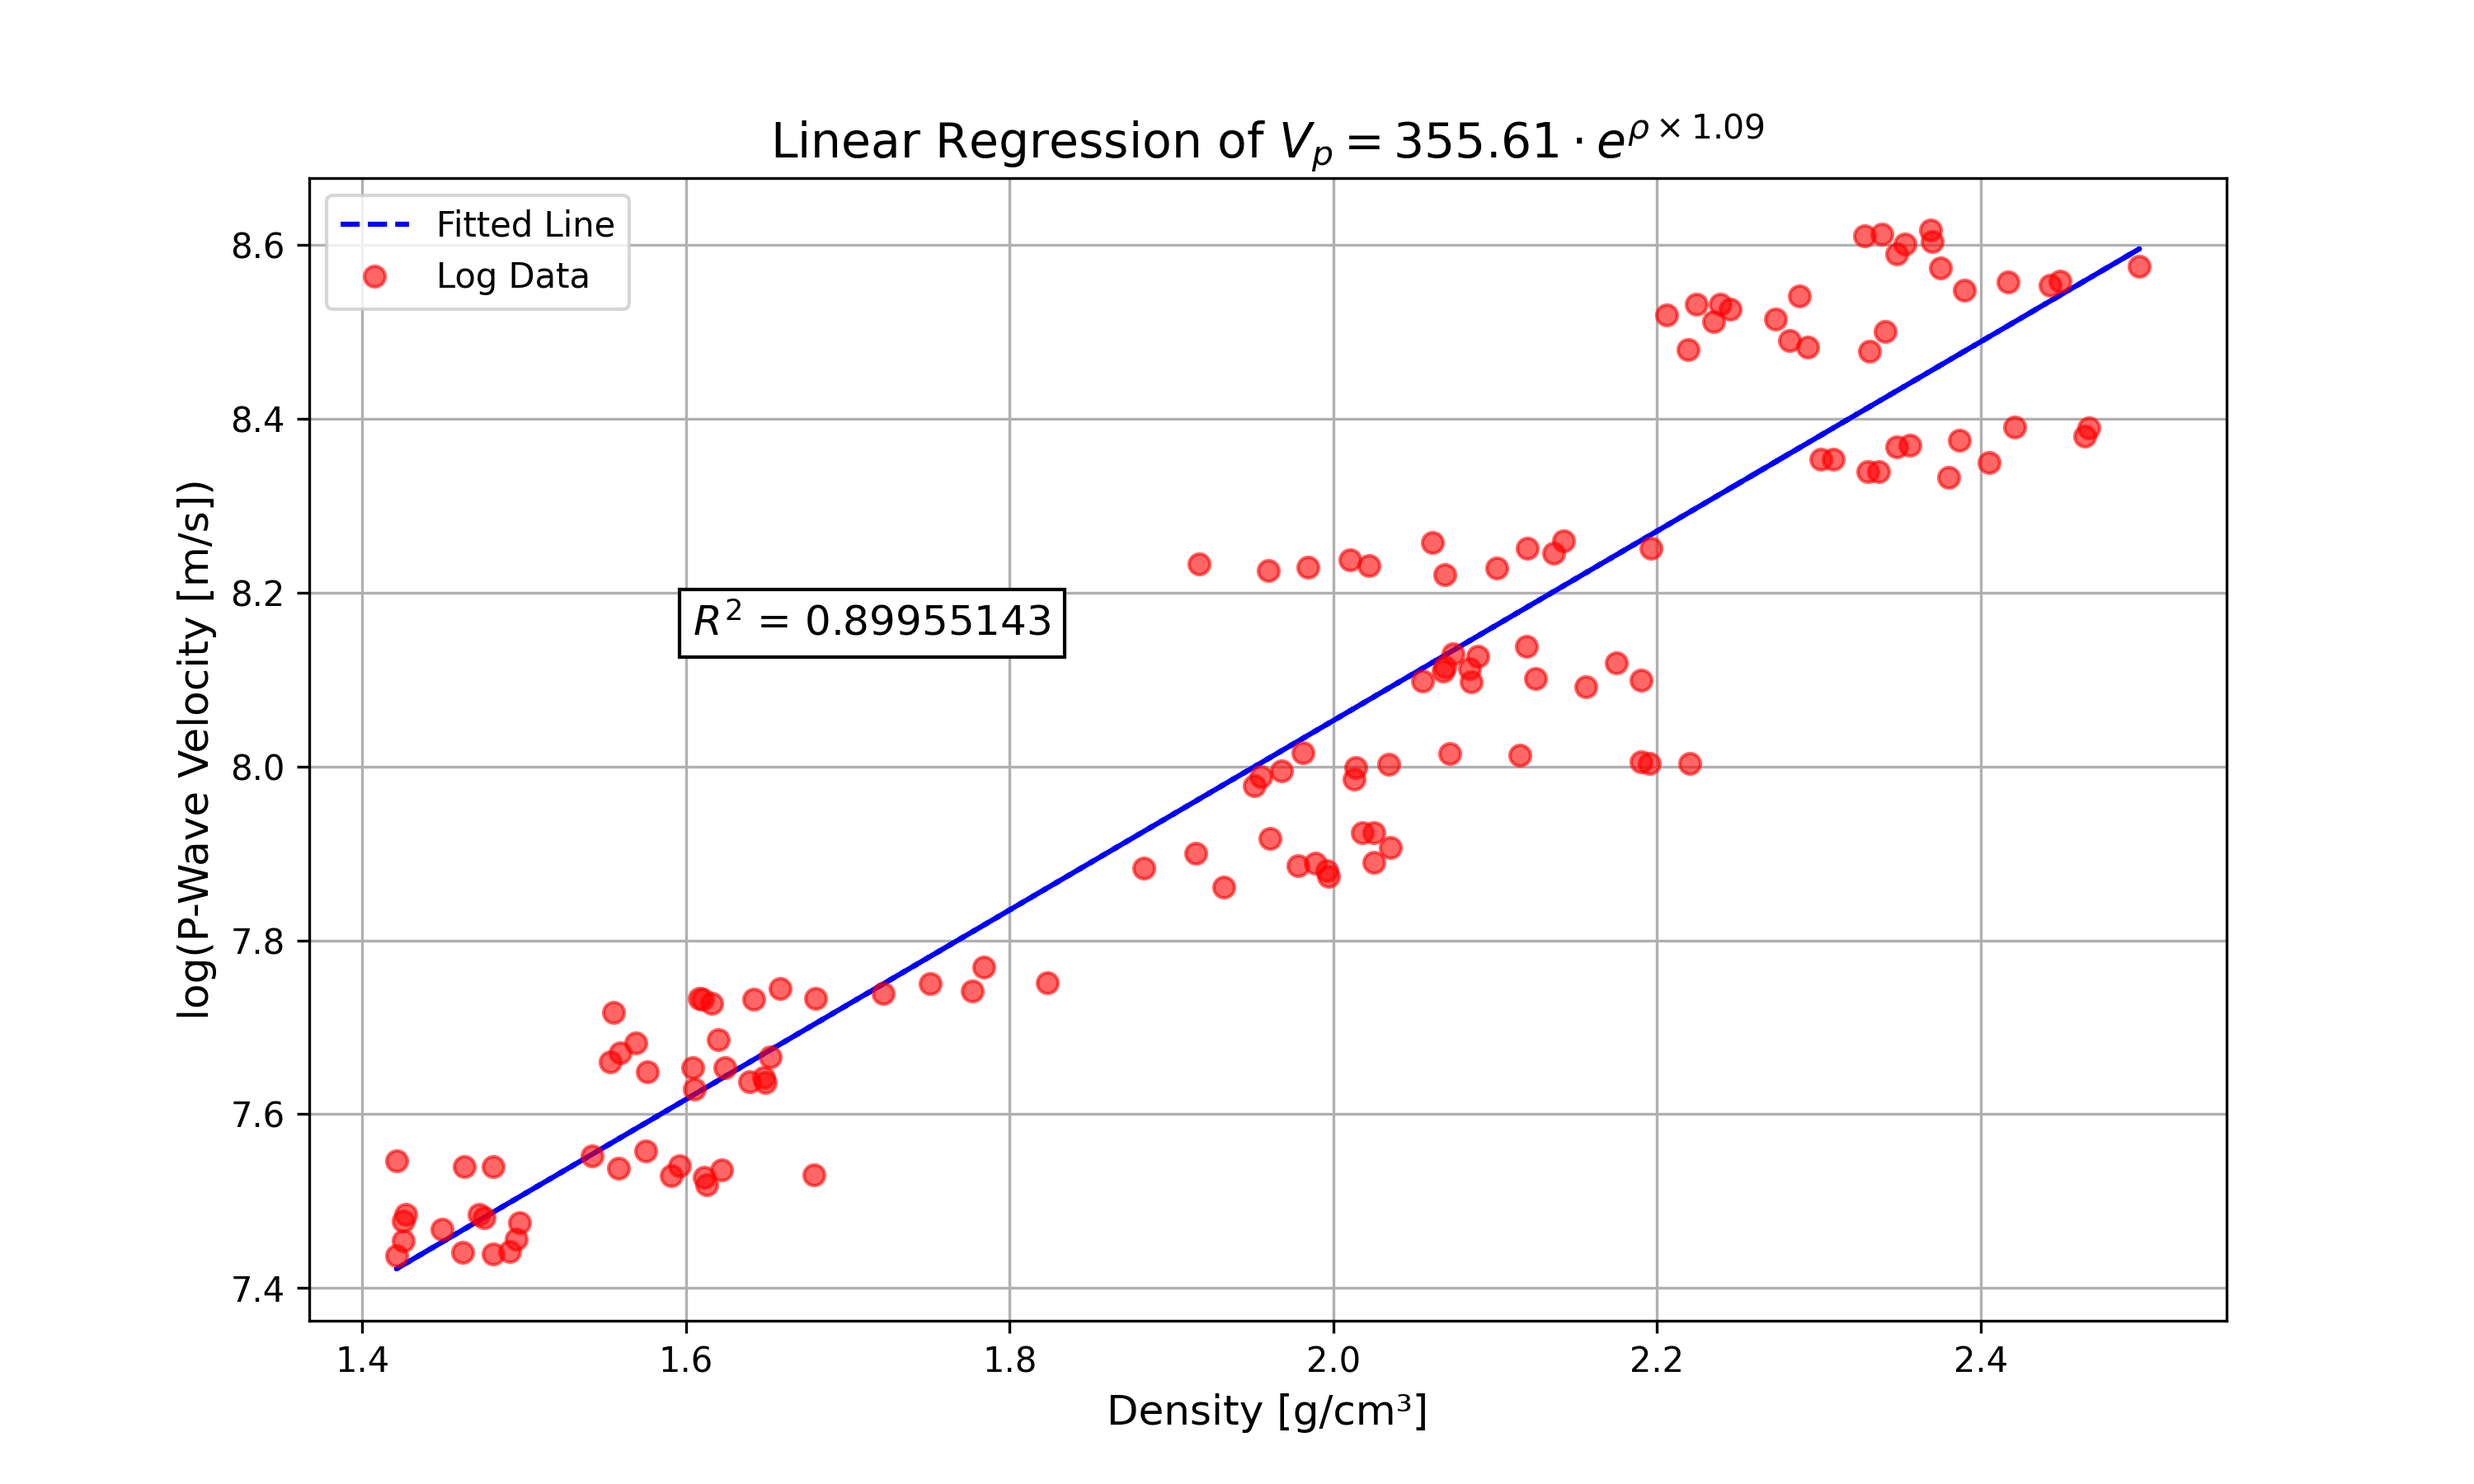
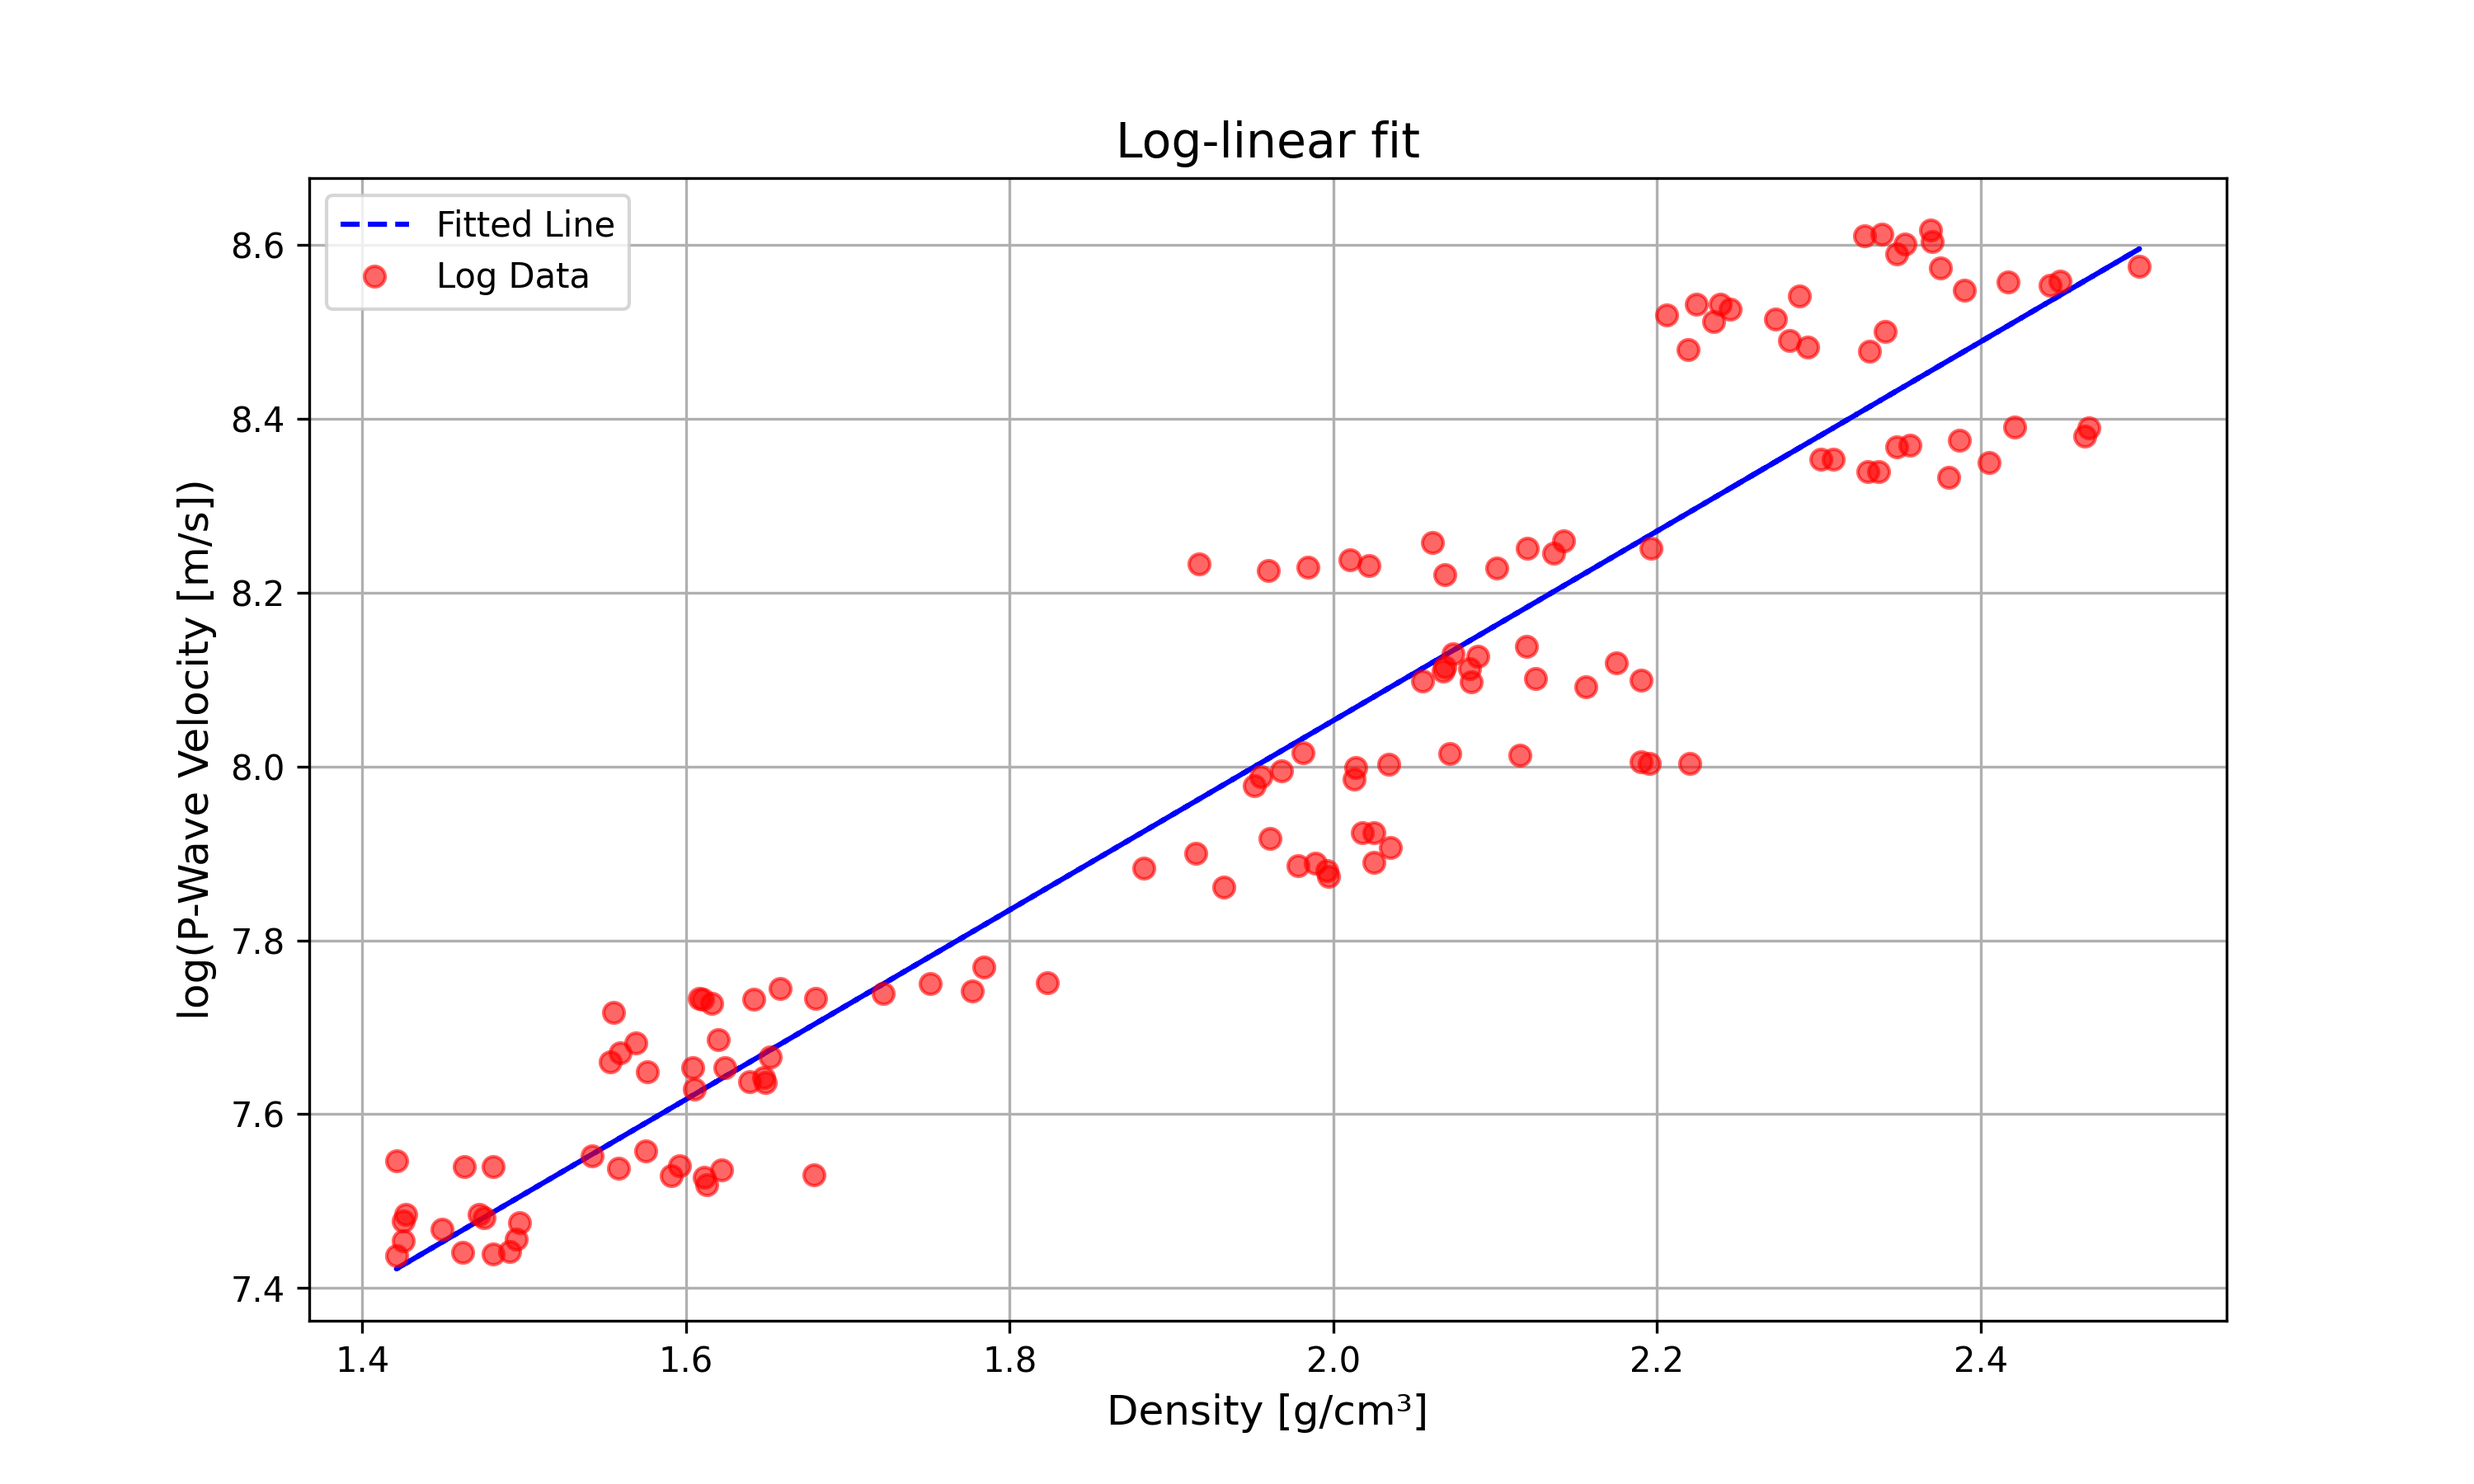
graphs r beautiful again!!!!!!!!

Changed region(s): [[0.31, 0.0622, 0.62, 0.1244], [0.279, 0.3733, 0.434, 0.4356], [0.651, 0.0622, 0.713, 0.0933]]

diff --git a/main/rho_vp_driver.py b/main/rho_vp_driver.py
@@ -17,9 +17,8 @@ def main():
     plt.plot(rho, vp, 'ro', markersize=6, alpha=0.6, label="Original Data")
     plt.xlabel("Density [g/cm³]", fontsize=12)
     plt.ylabel("P-Wave Velocity [m/s]", fontsize=12)
-    plt.title("P-Wave Velocity vs Density", fontsize=14)
-    plt.legend()
-    plt.savefig('../figures/magnitude_vs_time.png', dpi=300)
+    plt.title("Original Data", fontsize=16, fontweight='bold')
+    plt.savefig('../figures/og_plot.png', dpi=300)
     plt.show()
 
     # linearizing (2b)...
@@ -30,14 +29,6 @@ def main():
 
     log_n = Z @ a  # linearized vp values
 
-    # now we fit the model
-    k = a[1]
-    v0 = np.exp(a[0])  # undo the log to get actual V0
-
-    print(f"V0 = {v0}")
-    print(f"k = {k}")
-    print(f"R squared = {rsq}")
-
     # plotting log-linear fit...
     plt.figure(figsize=(10, 6))
     plt.grid()
@@ -45,17 +36,41 @@ def main():
     plt.plot(rho, y, 'ro', markersize=6, alpha=0.6, label="Log Data")
     plt.xlabel("Density [g/cm³]", fontsize=12)
     plt.ylabel("log(P-Wave Velocity [m/s])", fontsize=12)
+    plt.title('Linearized Data With Regression Line', fontsize=16, fontweight='bold')
     plt.legend()
-    plt.savefig('../figures/best_fit.png', dpi=300)
+    plt.savefig('../figures/linear_with_regress.png', dpi=300)
     plt.show()
 
+
+    # now we fit the model
+    k = a[1]
+    v0 = np.exp(a[0])  # undo the log to get actual V0
+    vp_new = v0 * np.exp(k * rho)
+
+    index = np.argsort(rho)
+    rho_sorted = rho[index]
+    vp_sorted = vp_new[index]
+
     # plotting original data with exponential...
-    plt.title(rf"Linear Regression of $V_p = {v0:.2f} \cdot e^{{\rho \times {k:.2f}}}$", fontsize=14)
+    plt.figure(figsize=(10, 6))
+    plt.grid()
+    plt.plot(rho_sorted, vp_sorted, 'b--', markersize=2, label="Fitted Line")
+    plt.plot(rho, vp,'ro', markersize=6, alpha=0.6, label="Original Data")
     plt.text(0.20, 0.60, f'$R^2$ = {rsq:.8f}', transform=plt.gca().transAxes,
              fontsize=12, bbox=dict(facecolor='white'))
+    plt.text(0.20, 0.70, rf'$V_p = {v0:.2f} \cdot e^{{\rho \times {k:.2f}}}$', transform=plt.gca().transAxes,
+             fontsize=12, bbox=dict(facecolor='white'))
     # transform is to place text relative to the axes, not data
+    plt.xlabel("Density [g/cm³]", fontsize=12)
+    plt.ylabel("log(P-Wave Velocity [m/s])", fontsize=12)
+    plt.title("Original Data with Regression Line", fontsize=16, fontweight='bold')
+    plt.legend()
+    plt.savefig('../figures/og_with_exp.png', dpi=300)
+    plt.show()
 
-
+    print(f"V0 = {v0}")
+    print(f"k = {k}")
+    print(f"R squared = {rsq}")
 
 
 if __name__ == "__main__":
